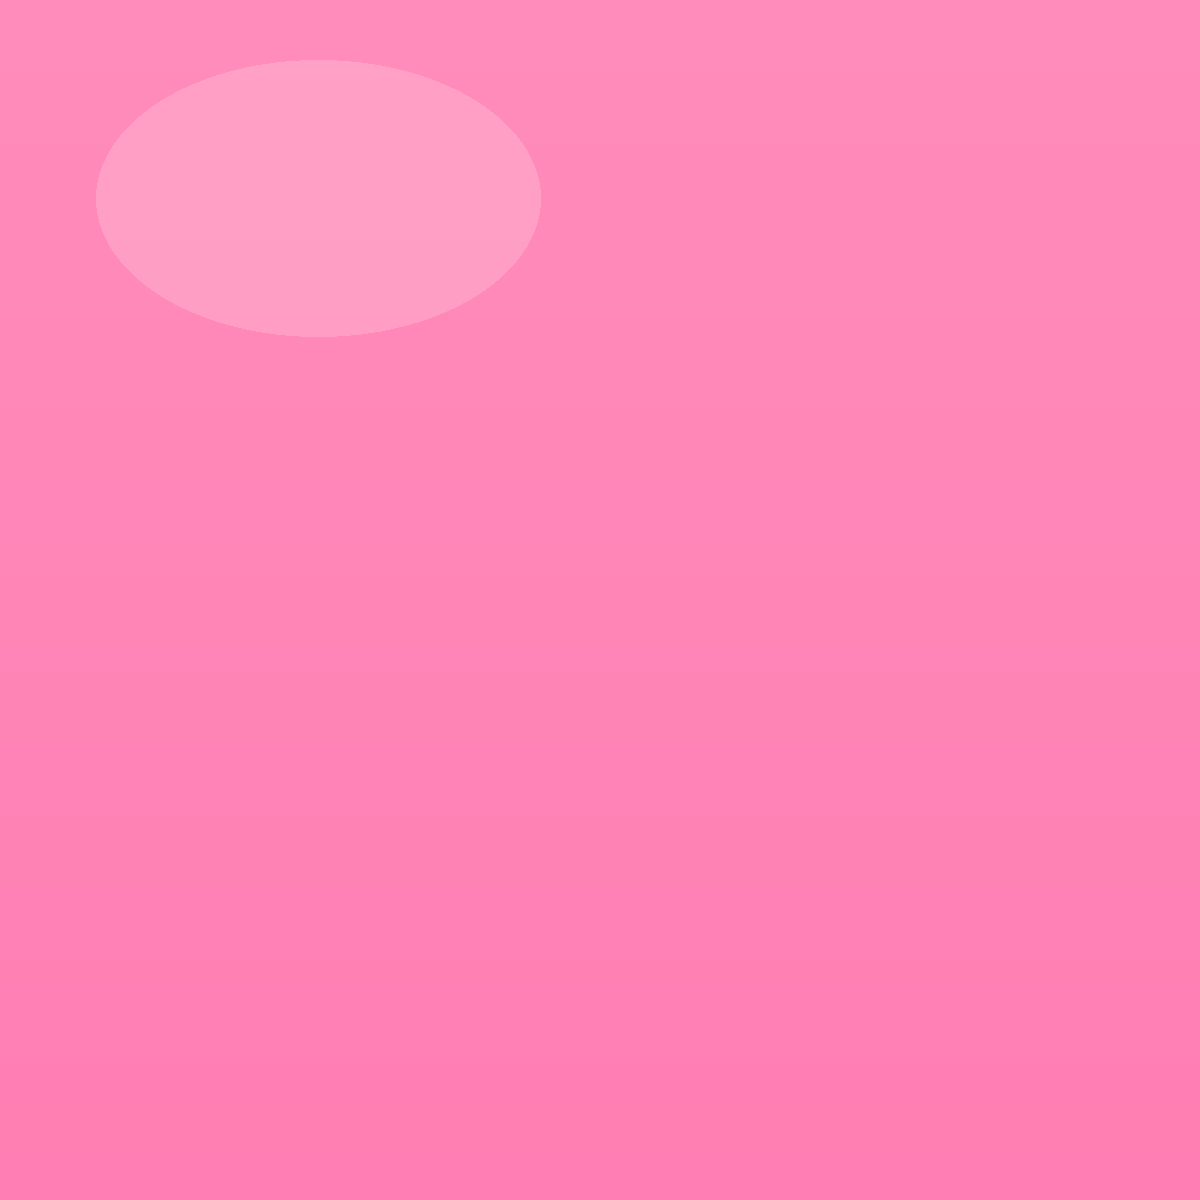
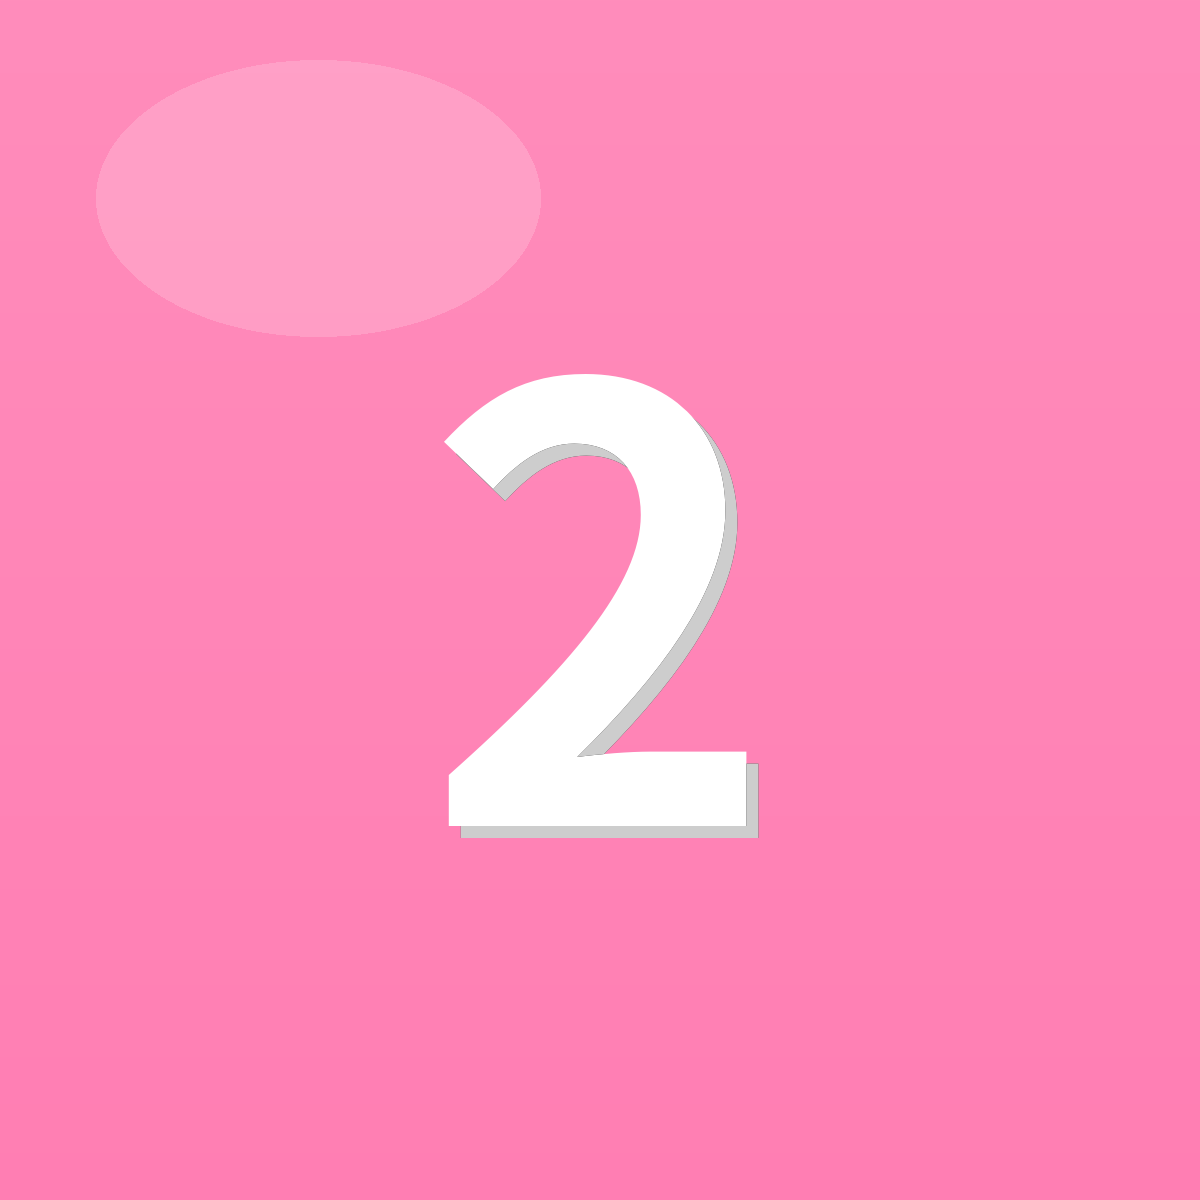
图标改为粉色带2 + 删除顶部模拟状态栏(灵动岛/时间/信号/电池)

Changed region(s): [[0.37, 0.3083, 0.6475, 0.7092]]

diff --git a/index.html b/index.html
@@ -30,23 +30,10 @@
     overflow: hidden;
   }
 
-  /* 顶部状态栏 */
-  .status-bar {
-    height: 44px;
-    display: flex; align-items: center; justify-content: space-between;
-    padding: 0 24px; font-size: 14px; font-weight: 600; color: #111;
-    position: absolute; top: 0; left: 0; right: 0; z-index: 10;
-  }
-  .status-bar .right { display: flex; align-items: center; gap: 6px; font-size: 12px; }
-  .status-bar .notch {
-    position: absolute; left: 50%; transform: translateX(-50%);
-    top: 8px; width: 110px; height: 28px; background: #111; border-radius: 20px;
-  }
-
   /* 顶部标题栏 */
   .top-header {
     height: 60px; display: flex; align-items: center; justify-content: space-between;
-    padding: 0 18px; margin-top: 44px; position: relative; z-index: 5;
+    padding: 0 18px; position: relative; z-index: 5;
   }
   .top-header .title-wrap { display: flex; align-items: center; gap: 10px; }
   .avatar {
@@ -68,7 +55,7 @@
 
   /* 主容器 */
   .app {
-    height: calc(100% - 44px); margin-top: 44px;
+    height: 100%;
     display: flex; flex-direction: column; position: relative;
   }
   .main { flex: 1; display: flex; position: relative; overflow: hidden; }
@@ -286,8 +273,7 @@
 
   @supports (padding: max(0px)) {
     .bottom-input { padding-bottom: env(safe-area-inset-bottom); }
-    .status-bar { padding-top: env(safe-area-inset-top); height: calc(44px + env(safe-area-inset-top)); }
-    .app { margin-top: calc(44px + env(safe-area-inset-top)); height: calc(100% - 44px - env(safe-area-inset-top)); }
+    .top-header { padding-top: env(safe-area-inset-top); }
   }
 </style>
 </head>
@@ -295,13 +281,6 @@
 
 <!-- 离线提示 -->
 <div class="offline-banner" id="offlineBanner">📡 当前离线，正在显示本地缓存内容</div>
-
-<!-- 状态栏 -->
-<div class="status-bar">
-  <div class="left" id="clock">09:57</div>
-  <div class="notch"></div>
-  <div class="right">📶 📡 🔋</div>
-</div>
 
 <div class="app">
   <div class="top-header">
@@ -839,7 +818,6 @@ function renderAll() { renderTasks(); renderIdeas(); renderRecords(); renderNote
 // ============ 初始化 ============
 function tick() {
   const d = new Date();
-  document.getElementById('clock').textContent = String(d.getHours()).padStart(2,'0')+':'+String(d.getMinutes()).padStart(2,'0');
   const days = ['日','一','二','三','四','五','六'];
   document.getElementById('dateStr').textContent = `${d.getMonth()+1}月${d.getDate()}日 周${days[d.getDay()]} · 搜索…`;
 }

diff --git a/sw.js b/sw.js
@@ -1,5 +1,5 @@
 // ===== 小吴工作台 Service Worker =====
-const CACHE_NAME = 'xiaowu-workbench-v4-app';
+const CACHE_NAME = 'xiaowu-workbench-v5-no-statusbar';
 const ASSETS = [
   './',
   './index.html',
